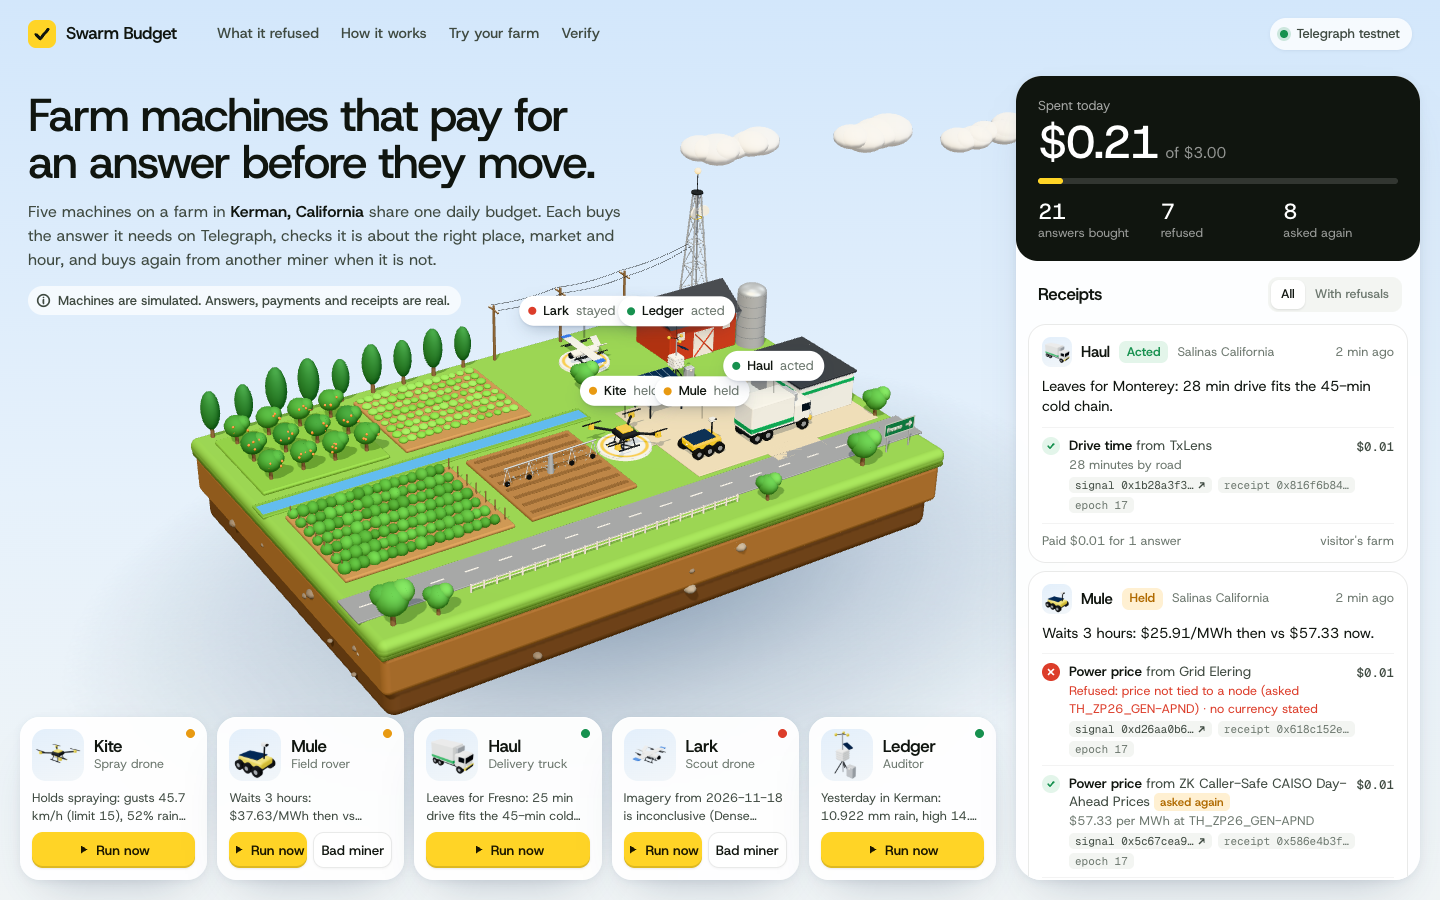
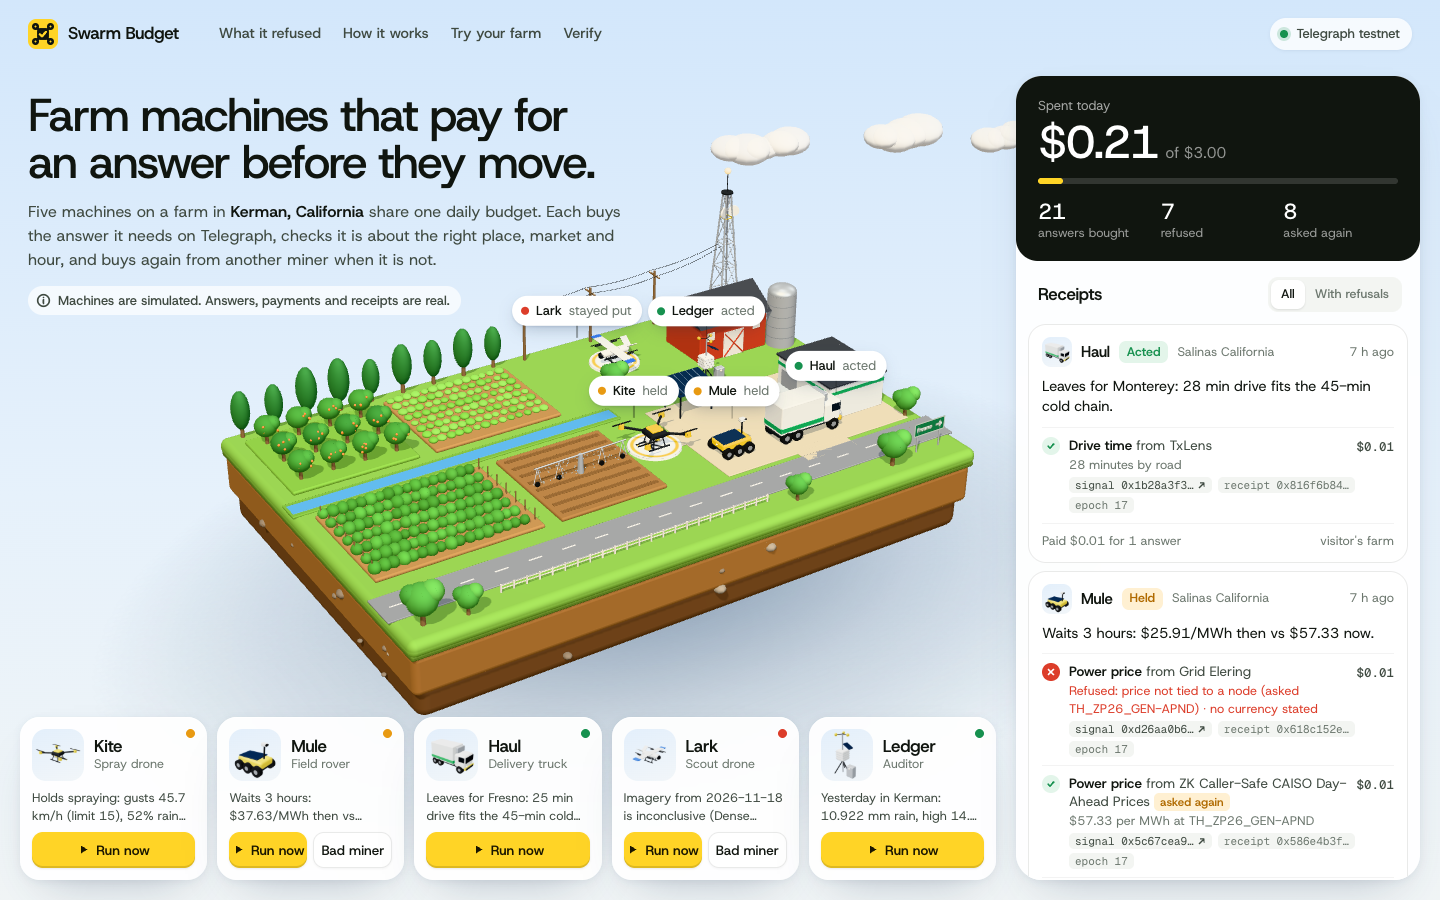
web: farm framing keeps the mast clear of the text at every laptop width; labels never cover text or each other

Changed region(s): [[0.125, 0.1244, 0.7188, 0.8089], [0.1562, 0.0311, 0.4375, 0.0622], [0.0, 0.0311, 0.125, 0.0622]]

diff --git a/web/app.js b/web/app.js
@@ -439,12 +439,25 @@ function layout() {
   const st = $(".stage").getBoundingClientRect();
   if (desktop()) {
     const dock = $("#dock").getBoundingClientRect(), led = $(".ledger").getBoundingClientRect(), pitch = $(".pitch").getBoundingClientRect();
-    const top = pitch.bottom - st.top - 84; // the farm's top-left corner is open sky, so it can tuck under the text
-    scene.setFrame({ x: 130, y: top, w: led.left - st.left - 140, h: dock.top - st.top - top - 4 });
+    // The farm's top-left corner is open sky, so it may tuck under the text as long as the telegraph mast stands
+    // clear of it. Try the biggest framings first; if the mast would still land in the text, the whole farm, mast
+    // included, goes below it.
+    const room = led.left - st.left, pr = pitch.right - st.left, pb = pitch.bottom - st.top, bottom = dock.top - st.top - 4;
+    const clear = () => { const b = scene.beacon(); return b.x > pr + 24 || b.y > pb + 8; };
+    const tall = { x: 30, y: pb + 8, w: room - 40, h: bottom - pb - 8, tall: true };
+    scene.setFrame(tall);
+    let best = tall, bestDist = scene.dist(); // a shorter camera distance means a bigger farm
+    for (const tuck of [84, 60, 36, 12]) for (const x of [130, 190, 250, 320]) {
+      const f = { x, y: pb - tuck, w: room - x - 10, h: bottom - pb + tuck };
+      scene.setFrame(f);
+      if (clear() && scene.dist() < bestDist) { best = f; bestDist = scene.dist(); }
+    }
+    scene.setFrame(best);
   } else scene.setFrame({ x: 4, y: 40, w: st.width - 8, h: st.height - 44 });
 }
 function placeTags(pos) {
   const st = $(".stage"), W = st.clientWidth, maxX = desktop() ? $(".ledger").offsetLeft - 12 : W;
+  const placed = [];
   for (const [id, p] of Object.entries(pos)) {
     const el = tags[id];
     if (!el) continue;
@@ -454,9 +467,35 @@ function placeTags(pos) {
       x = Math.max(half, Math.min(maxX - half, x));
       y = Math.max(el.offsetHeight + 74, y);
     }
-    el.style.transform = `translate(${x.toFixed(1)}px, ${y.toFixed(1)}px) translate(-50%, -100%)`;
-    el.style.opacity = p.show || tagState[id].open ? 1 : 0;
-    el.style.pointerEvents = p.show ? "" : "none";
+    placed.push({ id, el, x, y, open: tagState[id].open, show: p.show });
+  }
+  // Closed labels that would cover the headline stay hidden (the dock names every machine), and two machines standing close together get their labels slid apart
+  // sideways (the one further back moves).
+  const solo = $("#tags").classList.contains("solo");
+  const so = st.getBoundingClientRect();
+  const text = desktop() && !$(".hero").classList.contains("zoom") ? [...$(".pitch").children].map((e) => e.getBoundingClientRect()) : [];
+  const boxes = [];
+  for (const t of placed.sort((a, b) => b.y - a.y)) {
+    if (!t.open && t.show && !solo) {
+      const w = t.el.offsetWidth, h = t.el.offsetHeight;
+      const inText = () => text.some((r) => t.x - w / 2 < r.right - so.left + 6 && t.x + w / 2 > r.left - so.left - 6 && t.y - h < r.bottom - so.top + 6 && t.y > r.top - so.top - 6);
+      const hits = () => boxes.find((b) => Math.abs(b.x - t.x) < (b.w + w) / 2 + 6 && Math.abs(b.y - t.y) < (b.h + h) / 2 + 4);
+      const hit = hits(), x0 = t.x;
+      let ok = !hit;
+      if (hit) {
+        // slide off the label it hits: the nearer side first, then the other; give up if both are taken
+        const sides = [hit.x - (hit.w + w) / 2 - 6, hit.x + (hit.w + w) / 2 + 6].sort((a, b) => Math.abs(a - x0) - Math.abs(b - x0));
+        for (const x of sides) {
+          t.x = Math.max(w / 2 + 6, Math.min(maxX - w / 2, x));
+          if (!hits() && !inText()) { ok = true; break; }
+        }
+      }
+      if (!ok || inText()) t.show = false;
+      else boxes.push({ x: t.x, y: t.y, w, h });
+    }
+    t.el.style.transform = `translate(${t.x.toFixed(1)}px, ${t.y.toFixed(1)}px) translate(-50%, -100%)`;
+    t.el.style.opacity = t.show || t.open ? 1 : 0;
+    t.el.style.pointerEvents = t.show ? "" : "none";
   }
 }
 

diff --git a/web/scene.js b/web/scene.js
@@ -576,7 +576,7 @@ export function createScene(host, { low = false } = {}) {
   function bounds() {
     const W = host.clientWidth, H = host.clientHeight;
     let a = Infinity, b = -Infinity, c = Infinity, d = -Infinity;
-    for (const p of BOX) {
+    for (const p of frame?.tall ? [...BOX, BEACON] : BOX) {
       pv.copy(p).project(camera);
       const x = ((pv.x + 1) / 2) * W, y = ((1 - pv.y) / 2) * H;
       a = Math.min(a, x); b = Math.max(b, x); c = Math.min(c, y); d = Math.max(d, y);
@@ -813,6 +813,9 @@ export function createScene(host, { low = false } = {}) {
       pulses[pulses.length - 1].onHit = () => { burst(id, good ? COL.ok : COL.bad); done(); };
     }),
     setFrame: (f) => { frame = f; fit(); },
+    // Where the top of the telegraph mast lands on screen with the current frame (used to keep it clear of the text).
+    dist: () => baseDist,
+    beacon: () => { pv.copy(BEACON).project(camera); return { x: ((pv.x + 1) / 2) * host.clientWidth, y: ((1 - pv.y) / 2) * host.clientHeight }; },
     onFrame: (fn) => { onFrame = fn; },
     get selected() { return selected; },
   };

diff --git a/web/style.css b/web/style.css
@@ -270,14 +270,17 @@ h1 .w { display: inline-block; opacity: 0; transform: translateY(0.5em); animati
 .toast { background: var(--ink); color: #fff; font-size: 14px; padding: 11px 16px; border-radius: 14px; box-shadow: 0 16px 36px -14px rgba(16, 21, 15, 0.6); animation: rise 0.4s var(--pop); max-width: min(92vw, 520px); }
 
 /* ───────── narrower desktops */
+@media (max-width: 1420px) {
+  .unit-btns { flex-direction: column-reverse; }
+  .unit-btns .btn.quiet { flex: 1; }
+}
 @media (max-width: 1320px) {
   :root { --led-w: 372px; }
   .unit-top img { width: 44px; height: 44px; }
   .links { display: none; }
   .pitch { width: min(540px, calc(100vw - var(--led-w) - 80px)); }
   .sub { font-size: 15px; }
-  .unit-btns { flex-direction: column-reverse; }
-  .unit-btns .btn.quiet { flex: 1; }
+
 }
 /* ───────── tablets and phones: the page becomes one column */
 @media (max-width: 1020px) {
